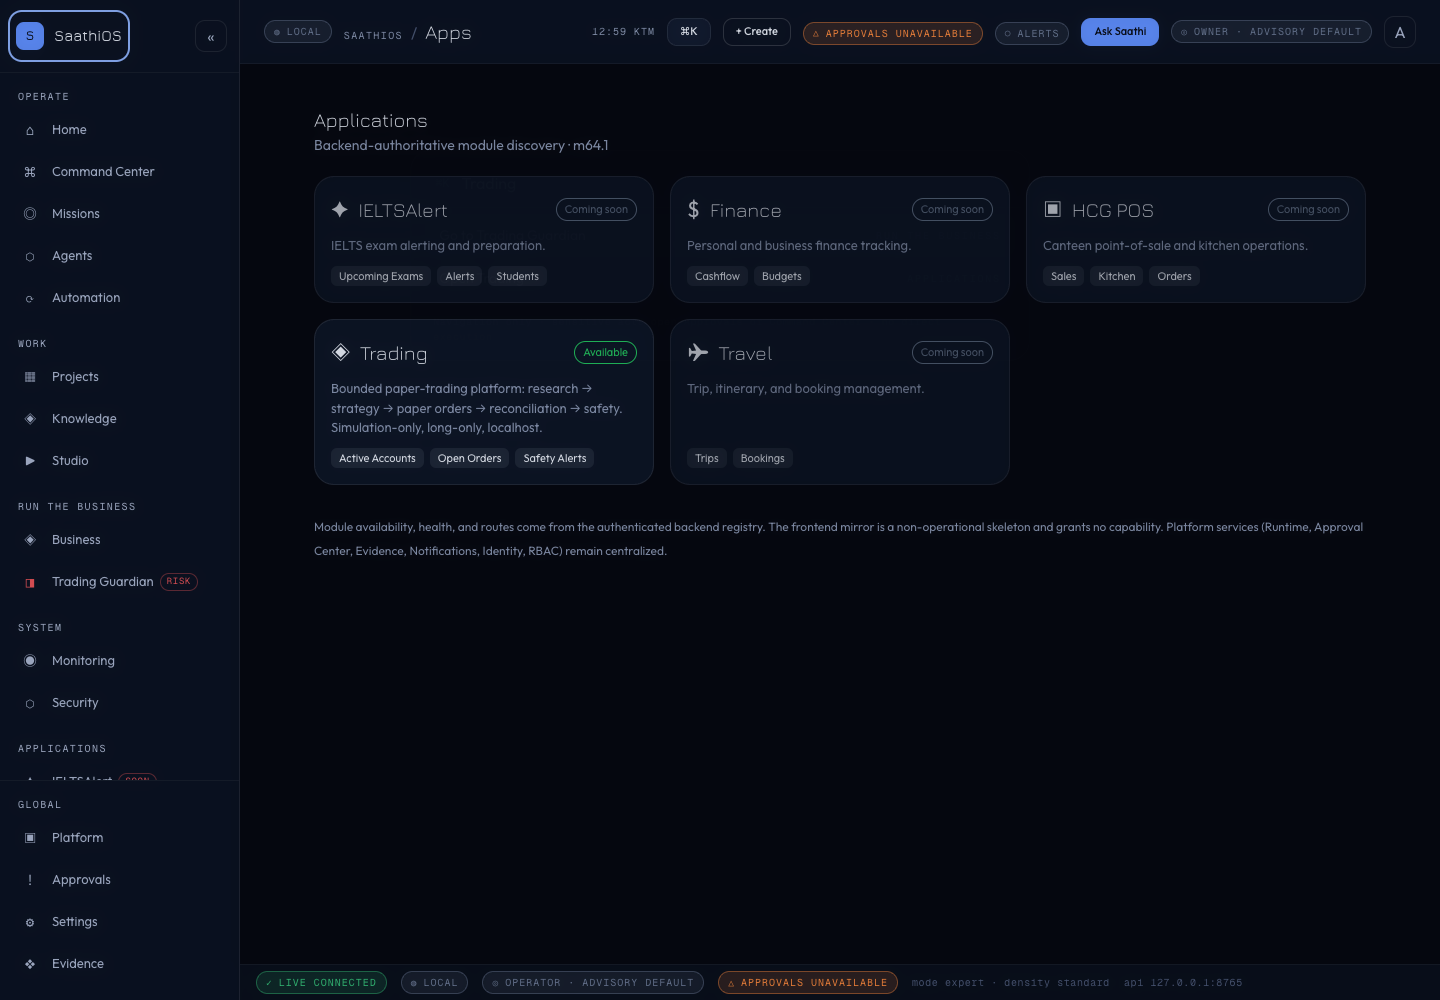
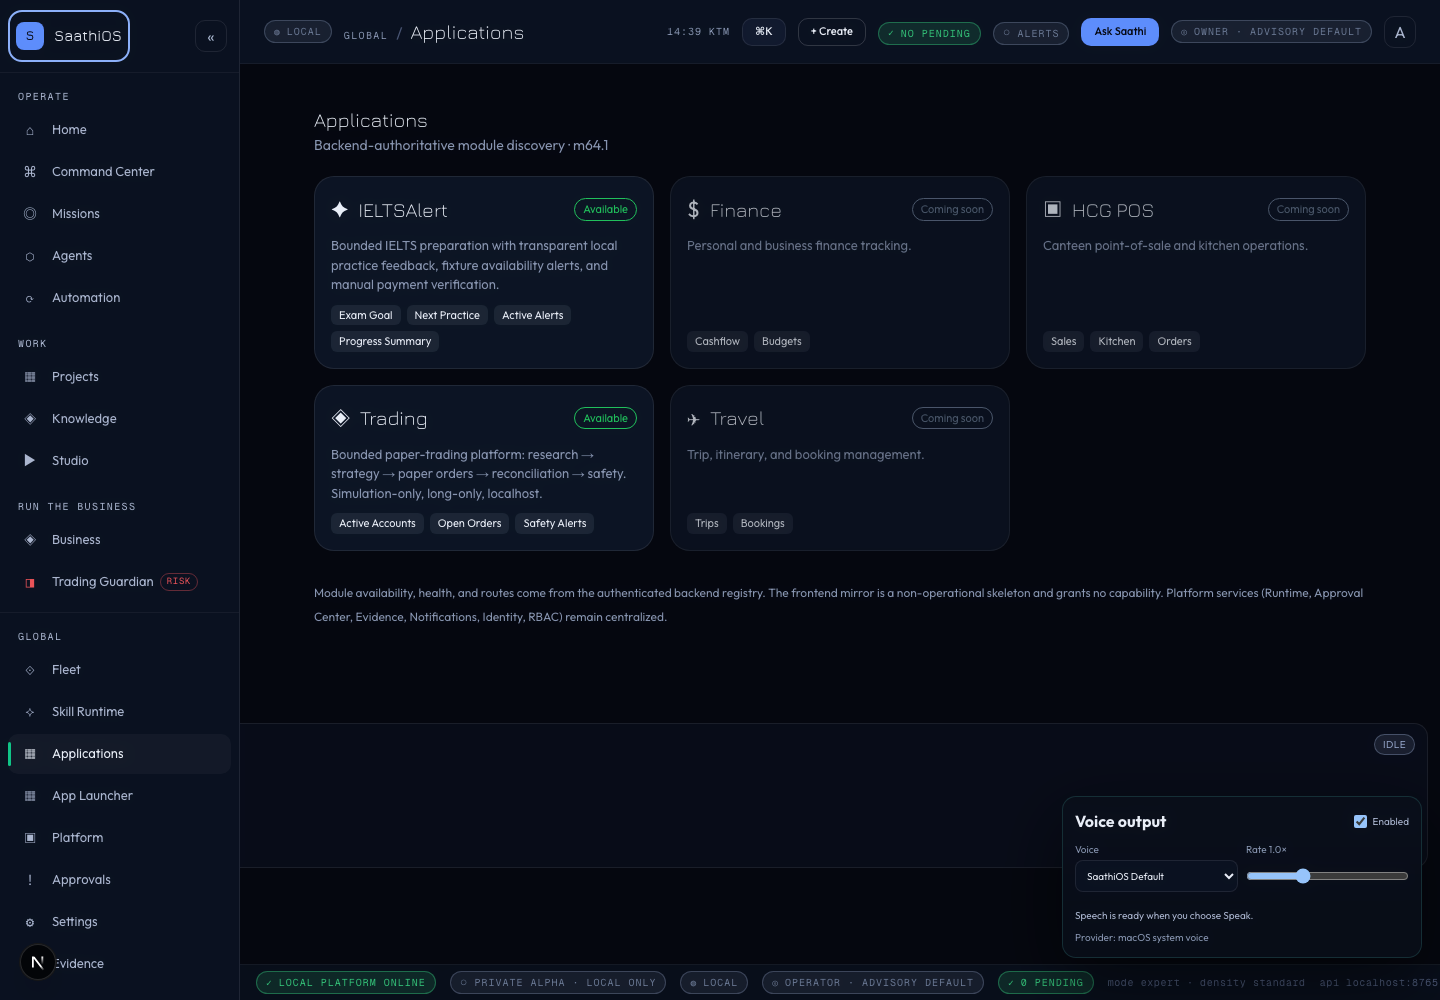
fix(m64): restore applications dashboard route contract

diff --git a/saathi-os/app/apps/page.jsx b/saathi-os/app/apps/page.jsx
@@ -1,7 +1,142 @@
-import AppLauncher from "@/components/apps/AppLauncher";
+"use client";
+// M64 — Applications launcher + unified dashboard, driven by the AUTHORITATIVE
+// backend module registry (GET /api/v1/platform/modules) via useModuleDiscovery.
+// The static mirror is used only as a non-operational loading skeleton. Module
+// availability, health, and actionability come from the backend `state` — never
+// computed in the browser, never granted by the mirror.
+import Link from "next/link";
+import { Card, Heading, Text, Button } from "@/components/ui";
+import { useModuleDiscoveryContext } from "@/lib/modules/ModuleDiscoveryContext";
+import { safeIcon } from "@/lib/modules/icons";
+import { BOOT } from "@/lib/modules/bootstrap";
 
-export const metadata = { title: "Applications — SaathiOS" };
+const STATE_META = {
+  available: { label: "Available", color: "#22C55E", actionable: true },
+  degraded: { label: "Degraded", color: "#F59E0B", actionable: false },
+  unavailable: { label: "Unavailable", color: "#EF4444", actionable: false },
+  disabled: { label: "Disabled", color: "#64748B", actionable: false },
+  not_implemented: { label: "Coming soon", color: "#64748B", actionable: false },
+  permission_restricted: { label: "Restricted", color: "#94A3B8", actionable: false },
+  unknown: { label: "Loading…", color: "#94A3B8", actionable: false },
+};
+
+function StateChip({ state }) {
+  const m = STATE_META[state] || STATE_META.unknown;
+  return (
+    <span
+      role="status"
+      aria-label={`Status: ${m.label}`}
+      style={{ fontSize: 11, padding: "2px 8px", borderRadius: 999, border: `1px solid ${m.color}`, color: m.color }}
+    >
+      {m.label}
+    </span>
+  );
+}
+
+function ModuleCard({ card }) {
+  const meta = STATE_META[card.state] || STATE_META.unknown;
+  const actionable = card.actionable === true && meta.actionable && !!card.primary_route;
+  const body = (
+    <Card style={{ display: "flex", flexDirection: "column", gap: 10, height: "100%", opacity: card.stale ? 0.5 : actionable ? 1 : 0.75 }}>
+      <div style={{ display: "flex", alignItems: "center", justifyContent: "space-between" }}>
+        <div style={{ display: "flex", alignItems: "center", gap: 10 }}>
+          <span style={{ fontSize: 22 }} aria-hidden="true">{safeIcon(card.icon)}</span>
+          <Heading level={3} style={{ margin: 0 }}>{card.title || card.name}</Heading>
+        </div>
+        <StateChip state={card.state} />
+      </div>
+      {card.description && <Text tone="muted" style={{ fontSize: 13 }}>{card.description}</Text>}
+      {card.widgets?.length > 0 && (
+        <div style={{ display: "flex", flexWrap: "wrap", gap: 6, marginTop: "auto" }}>
+          {card.widgets.map((w) => (
+            <span key={w.id} style={{ fontSize: 11, padding: "2px 8px", borderRadius: 6, background: "rgba(148,163,184,0.12)" }}>
+              {w.title}
+            </span>
+          ))}
+        </div>
+      )}
+    </Card>
+  );
+  return actionable ? (
+    <Link href={card.primary_route} style={{ textDecoration: "none", color: "inherit" }}>{body}</Link>
+  ) : (
+    <div aria-disabled="true" title={meta.label}>{body}</div>
+  );
+}
+
+function Banner({ tone = "muted", children, action }) {
+  const color = tone === "danger" ? "#EF4444" : tone === "warn" ? "#F59E0B" : "#94A3B8";
+  return (
+    <div style={{ border: `1px solid ${color}`, borderRadius: 8, padding: "12px 16px", marginBottom: 16, display: "flex", gap: 12, alignItems: "center" }}>
+      <Text style={{ color }}>{children}</Text>
+      {action}
+    </div>
+  );
+}
 
 export default function AppsPage() {
-  return <AppLauncher />;
+  const disc = useModuleDiscoveryContext();
+
+  // Cards: backend when ready; non-operational skeleton while loading.
+  const loading = disc.phase === BOOT.INITIALIZING || disc.phase === BOOT.LOADING_CONTEXT || disc.phase === BOOT.LOADING_MODULES;
+  const cards = disc.isReady
+    ? disc.cards
+    : disc.fallback.map((f) => ({ module_id: f.id, title: f.name, icon: f.icon, state: "unknown", stale: true, actionable: false }));
+
+  return (
+    <main style={{ padding: 24, maxWidth: 1100, margin: "0 auto" }}>
+      <header style={{ marginBottom: 20 }}>
+        <Heading level={1} style={{ margin: 0 }}>Applications</Heading>
+        <Text tone="muted">
+          Backend-authoritative module discovery{disc.contractVersion ? ` · ${disc.contractVersion}` : ""}
+        </Text>
+      </header>
+
+      {disc.phase === BOOT.AUTH_REQUIRED && (
+        <Banner tone="warn" action={<Link href="/unlock"><Button>Sign in</Button></Link>}>
+          Sign in to load your applications.
+        </Banner>
+      )}
+      {disc.phase === BOOT.SESSION_EXPIRED && (
+        <Banner tone="danger" action={<Link href="/unlock"><Button>Sign in</Button></Link>}>
+          Your session expired. Module state was cleared.
+        </Banner>
+      )}
+      {disc.phase === BOOT.PERMISSION_RESTRICTED && (
+        <Banner tone="warn">You do not have permission to view platform modules.</Banner>
+      )}
+      {disc.phase === BOOT.OFFLINE && (
+        <Banner tone="danger" action={<Button onClick={disc.retry}>Retry</Button>}>
+          Platform backend unavailable.
+        </Banner>
+      )}
+      {disc.phase === BOOT.ERROR && (
+        <Banner tone="danger" action={<Button onClick={disc.retry}>Retry</Button>}>
+          Could not load modules ({disc.errorCategory}).
+        </Banner>
+      )}
+      {disc.phase === BOOT.DEGRADED && (
+        <Banner tone="warn">Some modules report degraded health.</Banner>
+      )}
+      {loading && <Banner tone="muted">Loading applications…</Banner>}
+
+      <section
+        aria-label="Installed applications"
+        aria-busy={loading}
+        style={{ display: "grid", gridTemplateColumns: "repeat(auto-fill, minmax(260px, 1fr))", gap: 16 }}
+      >
+        {cards.map((card) => (
+          <ModuleCard key={card.module_id} card={card} />
+        ))}
+      </section>
+
+      <footer style={{ marginTop: 28 }}>
+        <Text tone="muted" style={{ fontSize: 12 }}>
+          Module availability, health, and routes come from the authenticated backend registry.
+          The frontend mirror is a non-operational skeleton and grants no capability. Platform
+          services (Runtime, Approval Center, Evidence, Notifications, Identity, RBAC) remain centralized.
+        </Text>
+      </footer>
+    </main>
+  );
 }

diff --git a/saathi-os/lib/navigation.js b/saathi-os/lib/navigation.js
@@ -173,14 +173,25 @@ export const GLOBAL_NAV = [
   },
   {
     id: "apps",
-    label: "Apps",
+    label: "Applications",
     href: "/apps",
     icon: "▦",
-    description: "Universal application launcher — local apps only",
+    description: "M64 Applications Dashboard — backend-authoritative module discovery",
     authoritySensitivity: "runtime-operate",
     global: true,
     accent: "#10C98A",
-    aliases: ["/applications", "/app-launcher"],
+    aliases: ["/applications"],
+  },
+  {
+    id: "app-launcher",
+    label: "App Launcher",
+    href: "/app-launcher",
+    icon: "▦",
+    description: "M121–M129 Universal Application Runtime — install, enable, launch, manage",
+    authoritySensitivity: "runtime-operate",
+    global: true,
+    accent: "#10C98A",
+    aliases: [],
   },
   {
     id: "platform",

diff --git a/saathi-os/app/app-launcher/page.jsx b/saathi-os/app/app-launcher/page.jsx
@@ -1,0 +1,7 @@
+import AppLauncher from "@/components/apps/AppLauncher";
+
+export const metadata = { title: "Application Launcher — SaathiOS" };
+
+export default function AppLauncherPage() {
+  return <AppLauncher />;
+}

diff --git a/saathi-os/app/applications/page.jsx b/saathi-os/app/applications/page.jsx
@@ -1,0 +1,5 @@
+import { redirect } from "next/navigation";
+
+export default function ApplicationsRedirect() {
+  redirect("/apps");
+}
